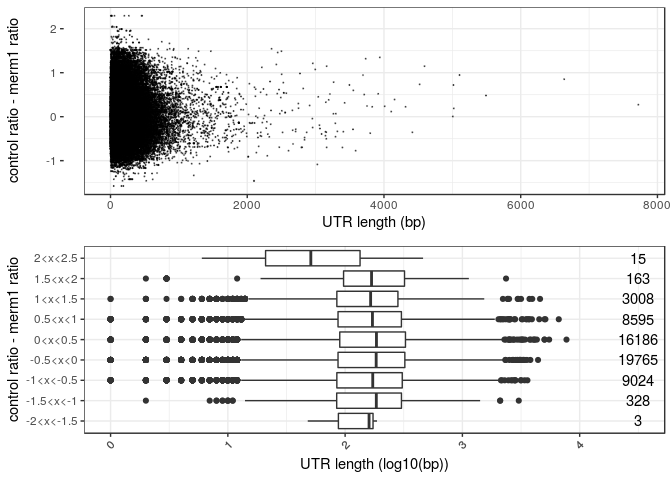
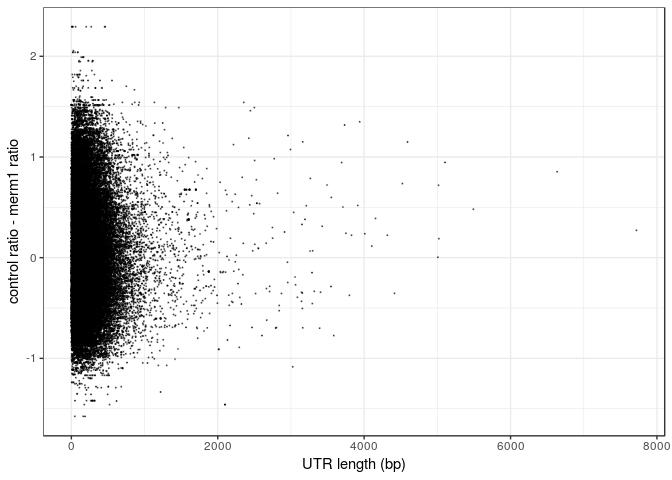
2018-02-05 Made plots bigger and added title

Changed region(s): [[0.0, 0.0312, 1.0, 1.0], [0.0, 0.0312, 0.0625, 0.1875], [0.0625, 0.0312, 0.0938, 0.0625]]

diff --git a/plotting.md b/plotting.md
@@ -1,9 +1,10 @@
-    ##    TRANS      ratio LENGTH  GC_count
-    ## 1 100000 -0.6443941    117 0.5862069
-    ## 2 100000 -0.6443941     92 0.5384615
-    ## 3 100001 -0.6443941    248 0.5789474
-    ## 4 100001 -0.6443941     87 0.5465116
-    ## 5 100002 -0.6443941    122 0.5867769
-    ## 6 100002 -0.6443941     69 0.6029412
+-   [Translational Efficiency Analysis](#translational-efficiency-analysis)
 
-![](plotting_files/figure-markdown_github/unnamed-chunk-1-1.png)![](plotting_files/figure-markdown_github/unnamed-chunk-1-2.png)![](plotting_files/figure-markdown_github/unnamed-chunk-1-3.png)
+Translational Efficiency Analysis
+=================================
+
+![](plotting_files/figure-markdown_github/unnamed-chunk-1-1.png)![](plotting_files/figure-markdown_github/unnamed-chunk-1-2.png)
+
+![](plotting_files/figure-markdown_github/unnamed-chunk-2-1.png)![](plotting_files/figure-markdown_github/unnamed-chunk-2-2.png)
+
+![](plotting_files/figure-markdown_github/unnamed-chunk-3-1.png)![](plotting_files/figure-markdown_github/unnamed-chunk-3-2.png)
